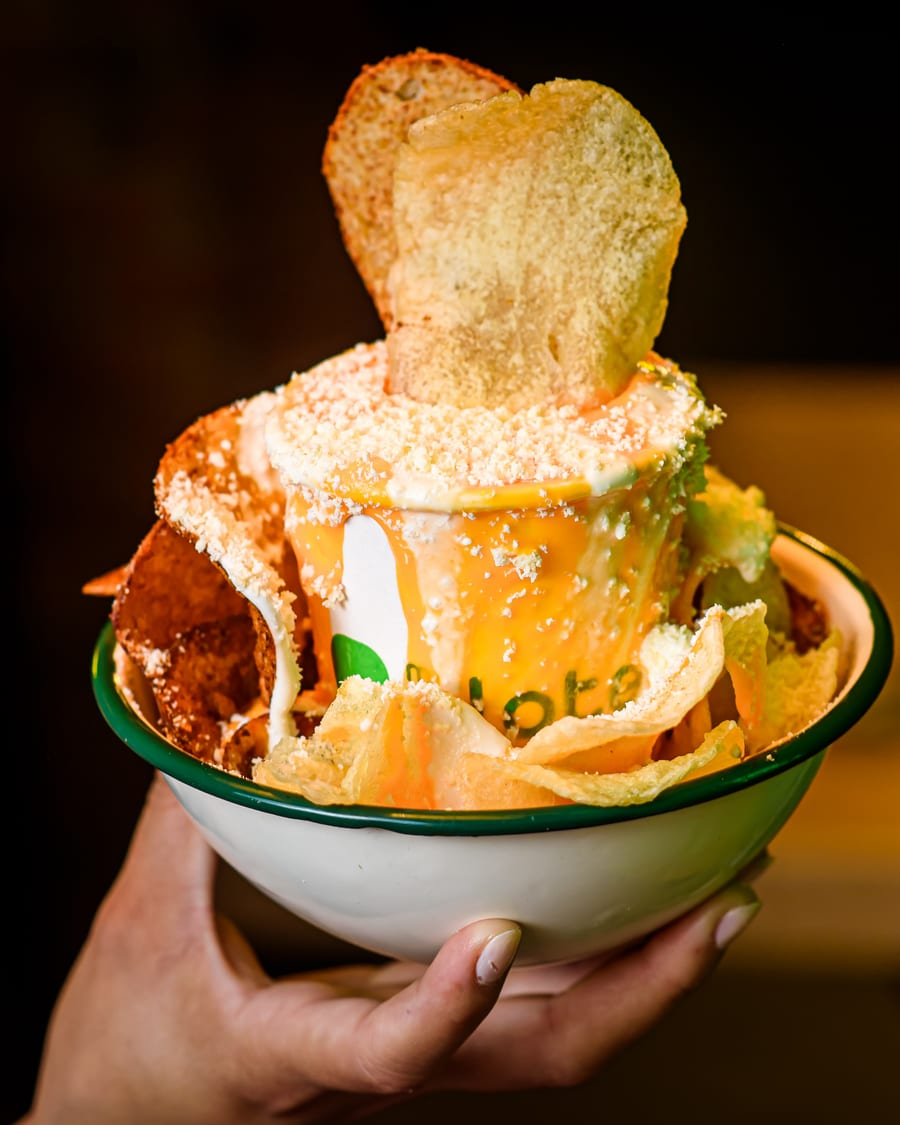
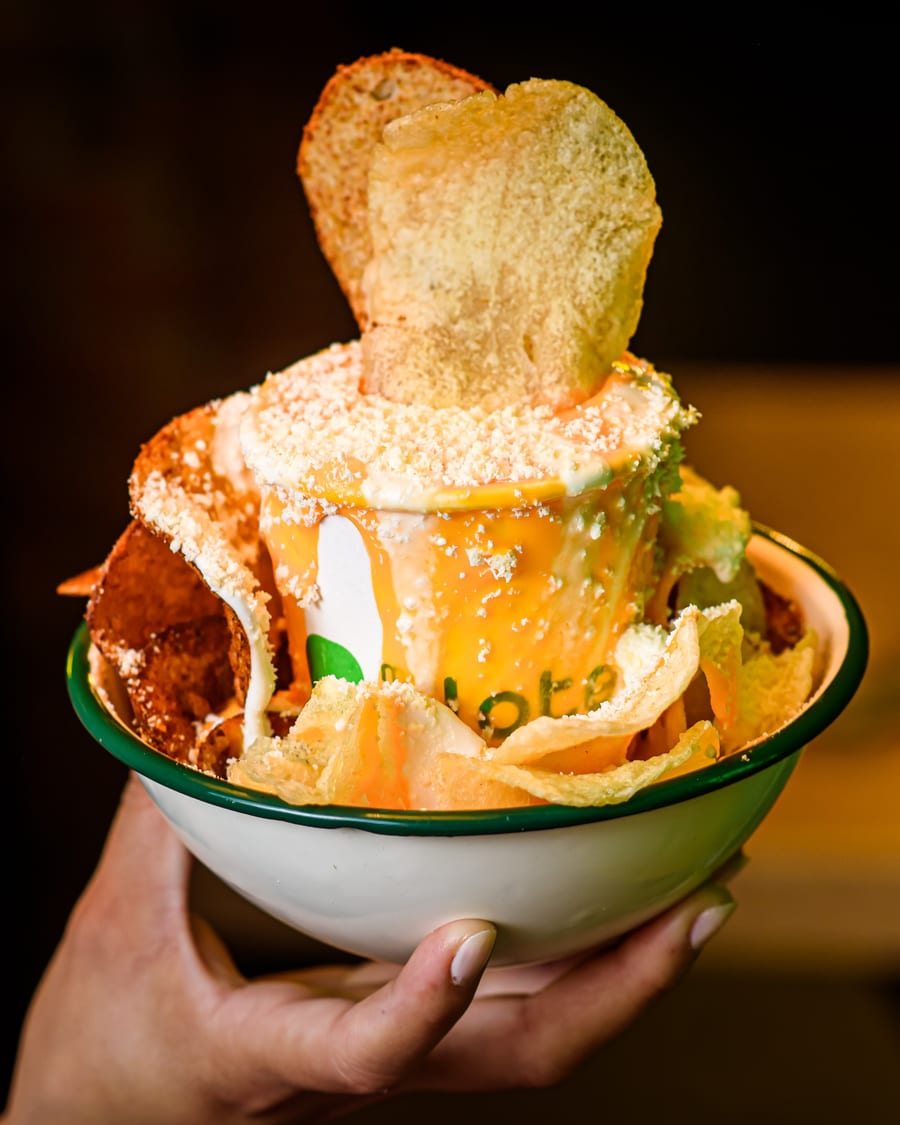
Productos: 4 platillos nuevos con fotos y textos del cliente
French-Squite-Fries, Volcano, Elote Revolcado y Esquite. Se quitan los 6
productos anteriores y sus fotos; el recorrido de la sección se ajusta a 4.

diff --git a/lib/content.ts b/lib/content.ts
@@ -9,52 +9,33 @@ export const NAV_LINKS = [
   { href: "#franquicia", label: "Franquicias", id: "franquicia" },
 ] as const;
 
-// NOTA: los nombres son los que Luis confirmó (títulos de los videos que
-// mandó). Las descripciones son un borrador nuestro para tener algo de texto
-// mientras Luis confirma o ajusta la redacción real de cada producto.
-// "image": foto real del producto (900x1125, 4:5). Antes cada producto era
-// una animación de la mascota (Mr. Guzmán) hecha de frames; el cliente pidió
-// cambiarlas por fotos del producto. Las fotos salen de su zip "fotos para la
-// página" (#11, #13, #14 y #16; el Tostielote Flamin Hot es el plato de la derecha
-// recortado de la #16), de DSC05875 (el vaso) y de una captura que mandó
-// el cliente para el Takis Blue Heat (560x700, baja resolución).
+// Nombres y textos tal cual los mandó el cliente (18-sep). "image": foto
+// real del producto (900x1125, 4:5), de su zip "fotos productos pagina web"
+// (1.jpg–4.jpg, en este mismo orden).
 export const PRODUCTS = [
   {
     n: "01",
-    name: "Elote",
-    image: asset("/images/productos/elote.jpg"),
-    desc: "El clásico elote asado Mr. Elote, bañado en mayonesa, queso y limón — la base de nuestra receta de siempre.",
+    name: "French-Squite-Fries",
+    image: asset("/images/productos/french-squite-fries.jpg"),
+    desc: "Una combinación única que reúne lo mejor de dos antojos: papas a la francesa y nuestro clásico esquite. Un platillo diferente, abundante y lleno de sabor, creado para disfrutar Mr. Elote de una forma totalmente nueva.",
   },
   {
     n: "02",
-    name: "Takis Blue Heat",
-    image: asset("/images/productos/takis-blue-heat.jpg"),
-    desc: "Elote gratinado coronado con Takis Blue Heat triturados — un toque azul, picante y crocante para los más atrevidos.",
+    name: "Volcano",
+    image: asset("/images/productos/volcano.jpg"),
+    desc: "Un esquite bañado en queso cheddar y acompañado de papas crujientes. Una combinación llena de sabor, creada para quienes siempre quieren llevar su antojo al siguiente nivel.",
   },
   {
     n: "03",
-    name: "Tostielote Flamin Hot",
-    image: asset("/images/productos/tostielote-flamin-hot.jpg"),
-    imagePosition: "center 75%",
-    desc: "Elote cargado de Tostitos Flamin' Hot machacados, queso derretido y un toque extra picante.",
+    name: "Elote Revolcado",
+    image: asset("/images/productos/elote-revolcado.jpg"),
+    desc: "No es nuevo, pero nunca puede faltar. Un clásico de Mr. Elote cubierto con tus papas trituradas favoritas, lleno de textura, sabor y ese toque monchoso que lo hace irresistible.",
   },
   {
     n: "04",
-    name: "Tostielote",
-    image: asset("/images/productos/tostielote.jpg"),
-    desc: "Nuestra versión insignia con capas de Tostitos crocantes sobre elote gratinado — textura y sabor en cada bocado.",
-  },
-  {
-    n: "05",
-    name: "Vaso De Elote",
-    image: asset("/images/productos/vaso-de-elote.jpg"),
-    desc: "El esquite de siempre, servido en vaso: grano tierno, mayonesa, queso y limón, listo para llevar.",
-  },
-  {
-    n: "06",
-    name: "Volcano",
-    image: asset("/images/productos/volcano.jpg"),
-    desc: "La presentación más espectacular del menú: elote gratinado con un volcán de queso derretido al centro.",
+    name: "Esquite",
+    image: asset("/images/productos/esquite.jpg"),
+    desc: "El clásico que nunca falla. Granos de elote llenos de sabor, preparados con los ingredientes que todos conocemos y amamos. Sencillo, delicioso y siempre indispensable en Mr. Elote.",
   },
 ] as const;
 

diff --git a/components/site/experiencia.tsx b/components/site/experiencia.tsx
@@ -8,20 +8,15 @@ import { cn } from "@/lib/utils";
 
 const N = PRODUCTS.length;
 
-// Patrón de posiciones en "vaivén" que pidió Luis: los primeros 3 productos
-// entran derecha → centro → izquierda, y los últimos 3 regresan en reversa
-// izquierda → centro → derecha — como un péndulo a lo largo de los 6
-// productos. Cada producto entra deslizándose desde ese lado (con fade) y,
-// al dejar de estar activo, se desvanece de vuelta a esa misma posición en
-// vez de deslizarse hacia afuera — un fundido discreto, no un rebote.
-const POSITION_BY_INDEX = [
-  "right",
-  "center",
-  "left",
-  "left",
-  "center",
-  "right",
-] as const;
+// Patrón de posiciones en "vaivén" que pidió Luis: la primera mitad de los
+// productos va derecha → izquierda y la segunda regresa izquierda → derecha,
+// como un péndulo (con 4 productos: derecha, izquierda, izquierda, derecha).
+// Cada producto entra deslizándose desde ese lado (con fade) y, al dejar de
+// estar activo, se desvanece de vuelta a esa misma posición en vez de
+// deslizarse hacia afuera — un fundido discreto, no un rebote.
+const POSITION_BY_INDEX = ["right", "left", "left", "right"] as const;
+// Cuánto scroll (en vh) le toca a cada producto.
+const VH_PER_PRODUCT = 70;
 type Position = (typeof POSITION_BY_INDEX)[number];
 
 function alignClasses(pos: Position) {
@@ -101,7 +96,11 @@ export function Experiencia() {
           </p>
         </ScrollReveal>
 
-        <div ref={visualRef} className="relative mt-10 h-[420vh]">
+        <div
+          ref={visualRef}
+          className="relative mt-10"
+          style={{ height: `${N * VH_PER_PRODUCT}vh` }}
+        >
           <div className="sticky top-24 h-[78vh] max-h-[720px] min-h-[520px] overflow-hidden">
             {PRODUCTS.map((product, i) => {
               const pos = POSITION_BY_INDEX[i];
@@ -141,10 +140,6 @@ export function Experiencia() {
                         sizes="(min-width: 640px) 40vw, 90vw"
                         loading={i < 2 ? "eager" : "lazy"}
                         className="object-cover"
-                        style={{
-                          objectPosition:
-                            "imagePosition" in product ? product.imagePosition : "center",
-                        }}
                       />
                     </div>
                   </div>
